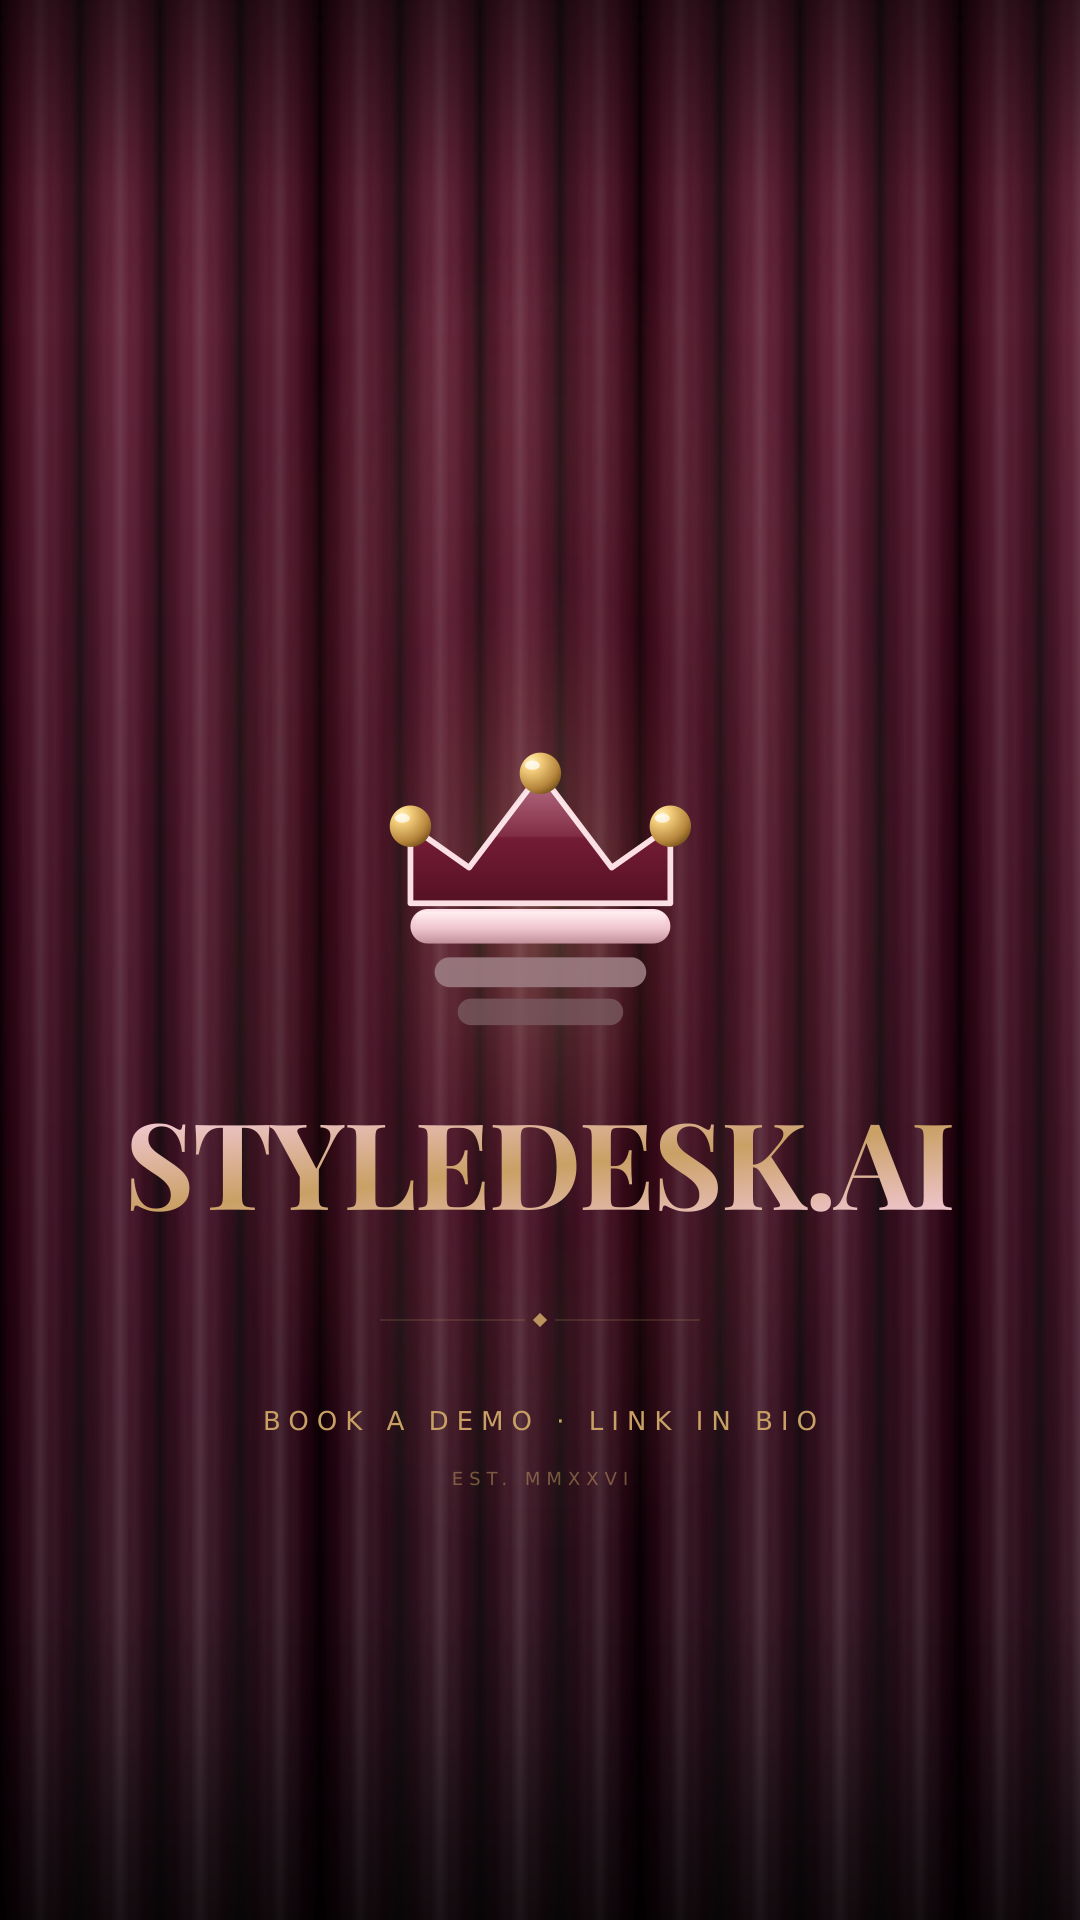
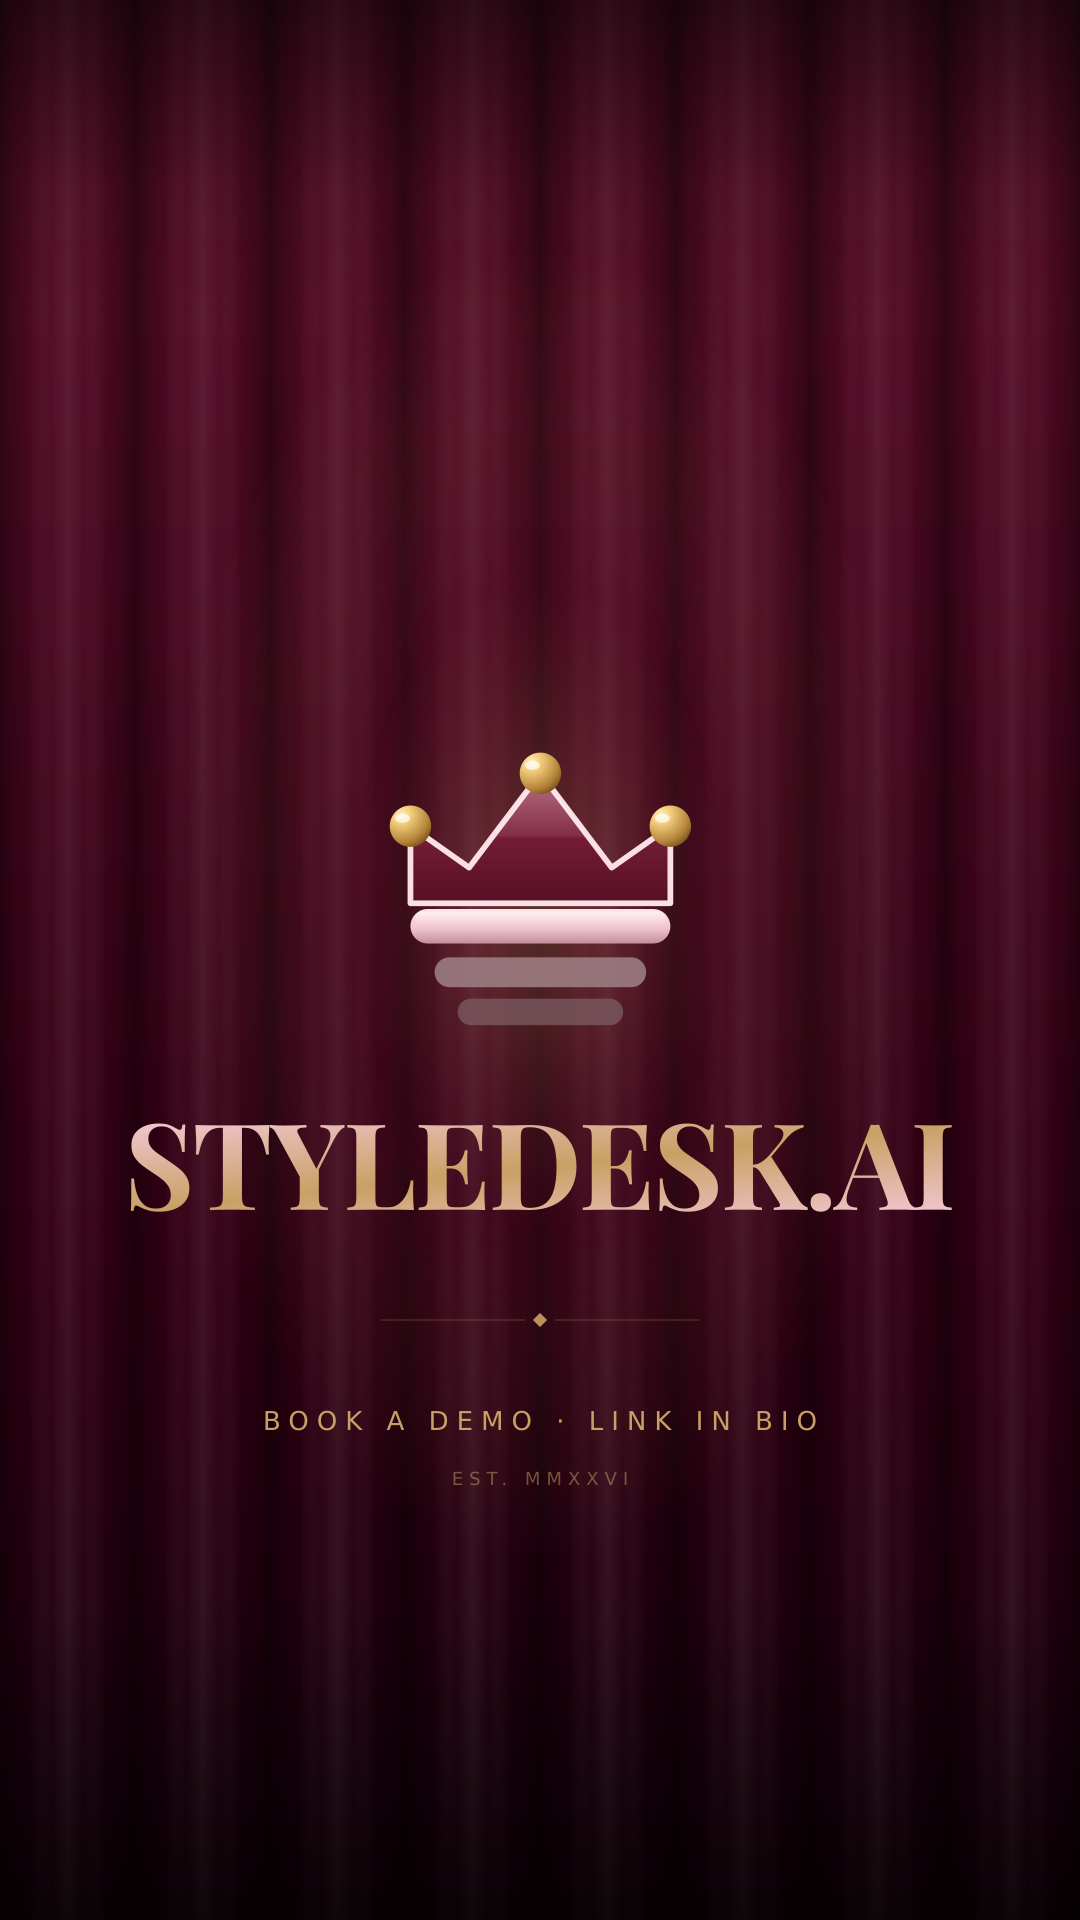
Outro card: wider 135px pleats + closing-curtain animation
Static (outro-card-reels.png):
- Pleats widen from 80→135px and are split into two 540px panels
  (4 pleats each), so the same SVG can drive the open/close animation.
- Pleat shadows deepen: dark crease at 92% alpha (was 78%), shadow
  ramp 78/50/22% across the fold edge.

Animation (outro-card-reels.gif + render-animation.js):
- 1.5s ease-out close: panels translate from off-screen (±540) to 0
- 0.5s content fade-in once curtains meet
- 0.6s hold on the final composition
- 30fps, 78 frames total, 540×960 GIF preview (~8MB)
- Run with --mp4 to also export 1080×1920 MP4 for Descript

https://claude.ai/code/session_01NAz6qSrkFRqLhG24ZbBP9Y

diff --git a/instagram/render-animation.js b/instagram/render-animation.js
@@ -1,0 +1,112 @@
+// Renders the StyleDesk outro card as a closing-curtain animation.
+//
+// Usage:
+//   node render-animation.js               # generates GIF preview (540×960, 30fps, ~2.5s)
+//   node render-animation.js --mp4         # also generates MP4 at 1080×1920 for Descript
+//
+// Pipeline: parameterize the outro SVG (panel translates + content opacity),
+// render N frames via sharp, then ffmpeg into GIF / MP4.
+
+const fs = require('fs');
+const path = require('path');
+const { execSync } = require('child_process');
+const sharp = require('/tmp/node_modules/sharp');
+
+const FPS = 30;
+const ANIM_DUR = 1.5;          // curtains closing — 1.5s
+const FADE_DUR = 0.5;          // content fade in — 0.5s
+const HOLD_DUR = 0.6;          // final hold
+const TOTAL_FRAMES = Math.round((ANIM_DUR + FADE_DUR + HOLD_DUR) * FPS);
+
+const PREVIEW_W = 540;         // GIF preview width (half-res for size)
+const PREVIEW_H = 960;
+const FULL_W = 1080;
+const FULL_H = 1920;
+
+const OUT_DIR = path.join(__dirname, 'png-ready', '_frames');
+const GIF_OUT = path.join(__dirname, 'png-ready', 'outro-card-reels.gif');
+const MP4_OUT = path.join(__dirname, 'png-ready', 'outro-card-reels.mp4');
+const SVG_PATH = path.join(__dirname, 'outro-card-reels.svg');
+
+// cubic ease-out: t' = 1 - (1-t)^3
+const easeOut = t => 1 - Math.pow(1 - t, 3);
+
+function svgForFrame(t /* seconds */) {
+  // Panel translates: linear ease-out from off-screen to 0 over ANIM_DUR.
+  let p = Math.min(t / ANIM_DUR, 1);
+  let eased = easeOut(p);
+  let leftTx = -540 * (1 - eased);  // -540 → 0
+  let rightTx = 540 * (1 - eased);  // +540 → 0
+
+  // Content opacity: starts at 0, fades in 0→1 between ANIM_DUR and ANIM_DUR+FADE_DUR.
+  let opacity = 0;
+  if (t >= ANIM_DUR) {
+    opacity = Math.min((t - ANIM_DUR) / FADE_DUR, 1);
+  }
+
+  let svg = fs.readFileSync(SVG_PATH, 'utf8');
+  svg = svg.replace('<g id="leftCurtain" transform="translate(0 0)">',
+                    `<g id="leftCurtain" transform="translate(${leftTx} 0)">`);
+  svg = svg.replace('<g id="rightCurtain" transform="translate(0 0)">',
+                    `<g id="rightCurtain" transform="translate(${rightTx} 0)">`);
+  svg = svg.replace('<g id="content" opacity="1">',
+                    `<g id="content" opacity="${opacity.toFixed(3)}">`);
+  return svg;
+}
+
+async function renderFrame(i, width, height) {
+  const t = i / FPS;
+  const svg = svgForFrame(t);
+  const out = path.join(OUT_DIR, `f${String(i).padStart(4, '0')}.png`);
+  await sharp(Buffer.from(svg))
+    .resize(width, height)
+    .png({ compressionLevel: 6 })
+    .toFile(out);
+}
+
+async function main() {
+  const wantMp4 = process.argv.includes('--mp4');
+
+  // Clean + recreate frames dir
+  if (fs.existsSync(OUT_DIR)) {
+    for (const f of fs.readdirSync(OUT_DIR)) fs.unlinkSync(path.join(OUT_DIR, f));
+  } else {
+    fs.mkdirSync(OUT_DIR, { recursive: true });
+  }
+
+  // Render all frames at preview size for GIF
+  console.log(`Rendering ${TOTAL_FRAMES} frames at ${PREVIEW_W}×${PREVIEW_H}…`);
+  for (let i = 0; i < TOTAL_FRAMES; i++) {
+    await renderFrame(i, PREVIEW_W, PREVIEW_H);
+    if (i % 10 === 0) process.stdout.write(`  ${i}/${TOTAL_FRAMES}\r`);
+  }
+  console.log(`  ${TOTAL_FRAMES}/${TOTAL_FRAMES} done.`);
+
+  // Build GIF via ffmpeg (with palette for size + quality)
+  const palette = path.join(OUT_DIR, '_palette.png');
+  console.log('Building palette…');
+  execSync(`ffmpeg -y -framerate ${FPS} -i ${OUT_DIR}/f%04d.png ` +
+           `-vf "palettegen=stats_mode=diff" ${palette}`, { stdio: 'inherit' });
+  console.log('Encoding GIF…');
+  execSync(`ffmpeg -y -framerate ${FPS} -i ${OUT_DIR}/f%04d.png -i ${palette} ` +
+           `-lavfi "paletteuse=dither=bayer:bayer_scale=4" ${GIF_OUT}`,
+           { stdio: 'inherit' });
+  console.log(`GIF: ${GIF_OUT}`);
+
+  if (wantMp4) {
+    // Re-render at full resolution for MP4
+    console.log(`Rendering ${TOTAL_FRAMES} frames at ${FULL_W}×${FULL_H} for MP4…`);
+    for (let i = 0; i < TOTAL_FRAMES; i++) {
+      await renderFrame(i, FULL_W, FULL_H);
+      if (i % 10 === 0) process.stdout.write(`  ${i}/${TOTAL_FRAMES}\r`);
+    }
+    console.log(`  ${TOTAL_FRAMES}/${TOTAL_FRAMES} done.`);
+    console.log('Encoding MP4 (H.264, yuv420p, faststart)…');
+    execSync(`ffmpeg -y -framerate ${FPS} -i ${OUT_DIR}/f%04d.png ` +
+             `-c:v libx264 -pix_fmt yuv420p -movflags +faststart -crf 18 ${MP4_OUT}`,
+             { stdio: 'inherit' });
+    console.log(`MP4: ${MP4_OUT}`);
+  }
+}
+
+main().catch(e => { console.error(e); process.exit(1); });